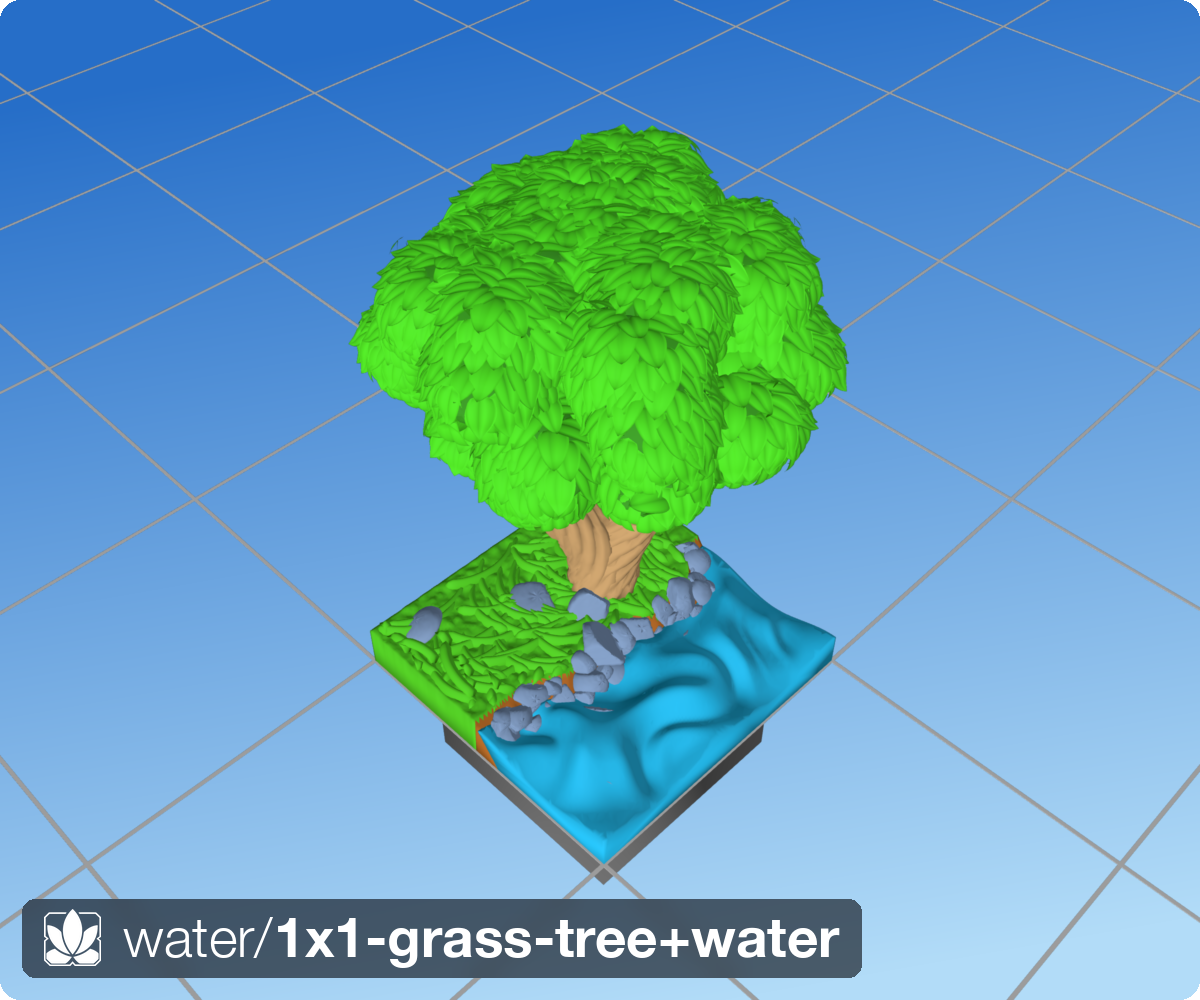
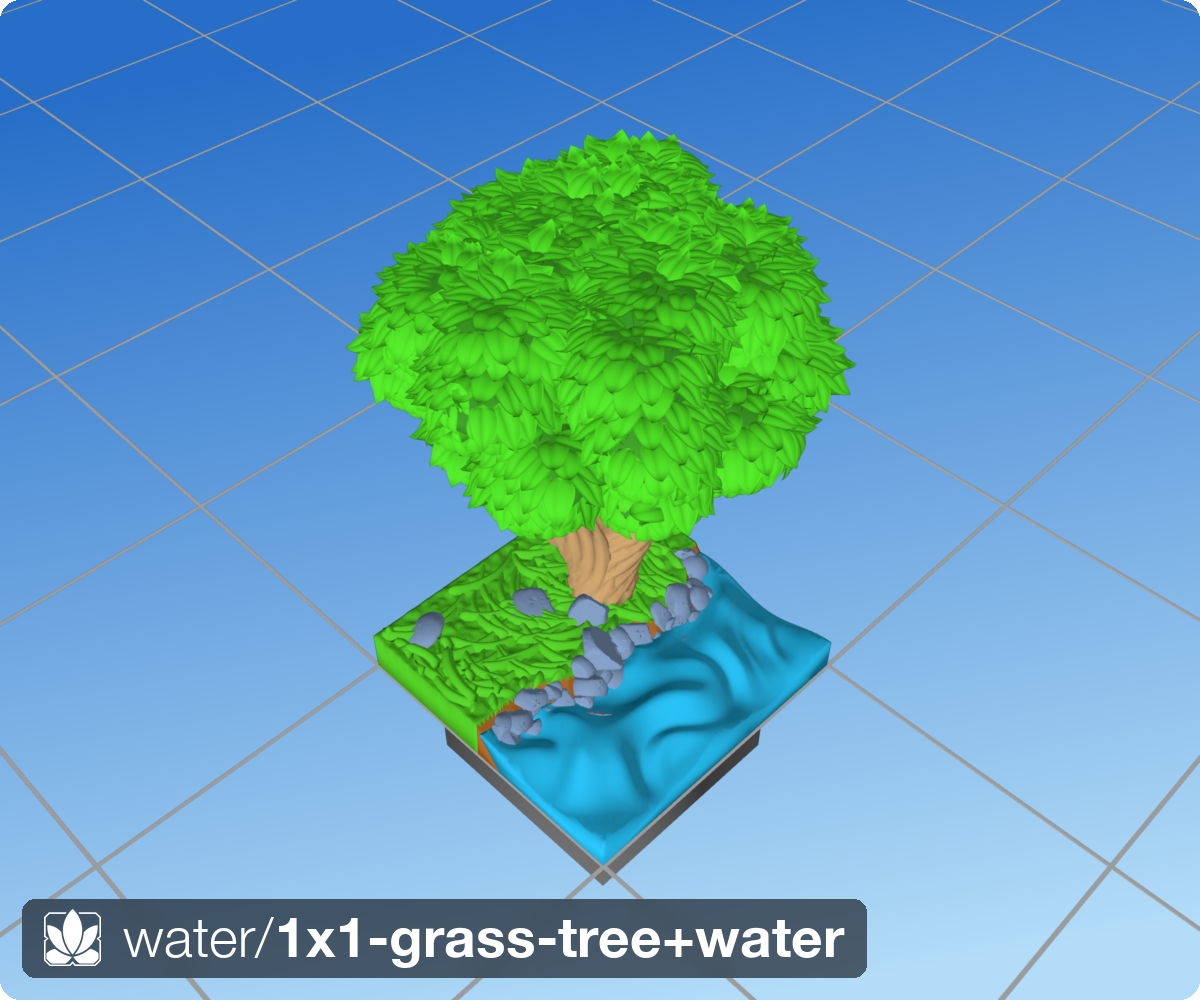
Organic: double the crown effect (tip lift, curl cap, tip ceiling)
Exaggerate upturned tips on upward-facing canopy surfaces while leaving
the underside flush-arch behaviour untouched — all three constants scale
with the smoothstep zone factor st, so the transition down the canopy is
continuous:

- _ORGANIC_TIP_LIFT_MM      0.6 -> 1.2
- _ORGANIC_PITCH_CURL_DEG   16  -> 32
- _ORGANIC_TIP_CEIL_RANGE_MM 1.2 -> 2.4

Bump 1x1-grass-tree+water leaf_curl_deg 20 -> 32 so that tile gets the
full new curl cap. Regenerated renders.

Claude-Session: https://claude.ai/code/session_01N52X1qVoRMnzi1jxnvUHEL

diff --git a/src/dharmatiles/trees/placement_organic.py b/src/dharmatiles/trees/placement_organic.py
@@ -86,7 +86,7 @@ _ORGANIC_ZONE_LO: float = -0.45
 _ORGANIC_PLACEABLE_NORMAL_Z: float = -0.75
 
 # Tip clearance ceiling blend: ceiling = touch + st × this.
-_ORGANIC_TIP_CEIL_RANGE_MM: float = 1.2
+_ORGANIC_TIP_CEIL_RANGE_MM: float = 2.4
 
 # Direction field: down-slope rotated by a smooth positional angle field.
 # Kept modest: divergent neighbours are the main source of blade sheets
@@ -95,13 +95,14 @@ _ORGANIC_DIR_VAR_DEG: float = 15.0     # peak deviation from down-slope
 _ORGANIC_DIR_WAVELEN_MM: float = 7.0   # spatial wavelength of the field
 
 # Shingle pitch: every pitched blade's TIP floats this far above its base
-# level (the leaf builder's rigid tip rotation) — just enough to clear the
-# blade below (≈2× blade thickness), no more.  The aesthetic-judge pass
-# flagged 1.2 mm as the "artichoke" tell: tips flaring off the mass.  The
-# AC look wants blades HUGGING the mass, tips drooping down-slope; the
+# level (the leaf builder's rigid tip rotation).  0.6 mm (≈2× blade
+# thickness) was the hug-the-mass baseline after the aesthetic-judge pass
+# flagged flaring tips; now deliberately doubled to EXAGGERATE upturned
+# tips at the crown.  Scales with st, so the underside is untouched and
+# the smoothstep zone provides the transition down the canopy.  The
 # monotone standoff below (not the lift) owns the upper-over-lower
 # guarantee.
-_ORGANIC_TIP_LIFT_MM: float = 0.6
+_ORGANIC_TIP_LIFT_MM: float = 1.2
 
 # Per-leaf size jitter, downward only (max size = the configured leaf):
 # scale ∈ [1−jitter, 1].  Uniform stamped-looking leaves were judge item 8.
@@ -129,10 +130,12 @@ _ORGANIC_FLUSH_CURL_DEG: float = 0.0
 _ORGANIC_FLUSH_LIFT_MM: float = 0.0
 _ORGANIC_FLUSH_ARCH_MM: float = 0.8
 
-# Pitched-blade curl override: the configured 40° curl made every blade a
-# curling tongue that presents its EDGE (shaggy canopy); the AC read wants
-# flat plates presenting their FACE.  Gentle curl keeps a hint of droop.
-_ORGANIC_PITCH_CURL_DEG: float = 16.0
+# Pitched-blade curl cap: the configured 40° curl made every blade a
+# curling tongue that presents its EDGE (shaggy canopy); 16° kept flat
+# plates presenting their FACE.  Doubled to exaggerate upturned crown
+# tips (scales with st, so only clearly-upward faces feel the full cap;
+# a tile's leaf_curl_deg still caps below this).
+_ORGANIC_PITCH_CURL_DEG: float = 32.0
 
 # Neck gate: reject a blade whose accumulated in-plane slide + net normal
 # standoff would stretch the blade→oval stitch walls beyond this — the

diff --git a/src/tiles/water/1x1-grass-tree+water.tile.py b/src/tiles/water/1x1-grass-tree+water.tile.py
@@ -67,7 +67,7 @@ tile = Tile(
                     leaf_placement="organic",
                     leaf_length_mm=4.5,
                     leaf_width_mm=3.0,
-                    leaf_curl_deg=20.0,
+                    leaf_curl_deg=32.0,
                     leaf_lift_mm=1.5,
                     leaf_h_overlap=0.1,
                     leaf_v_overlap=0.25,
